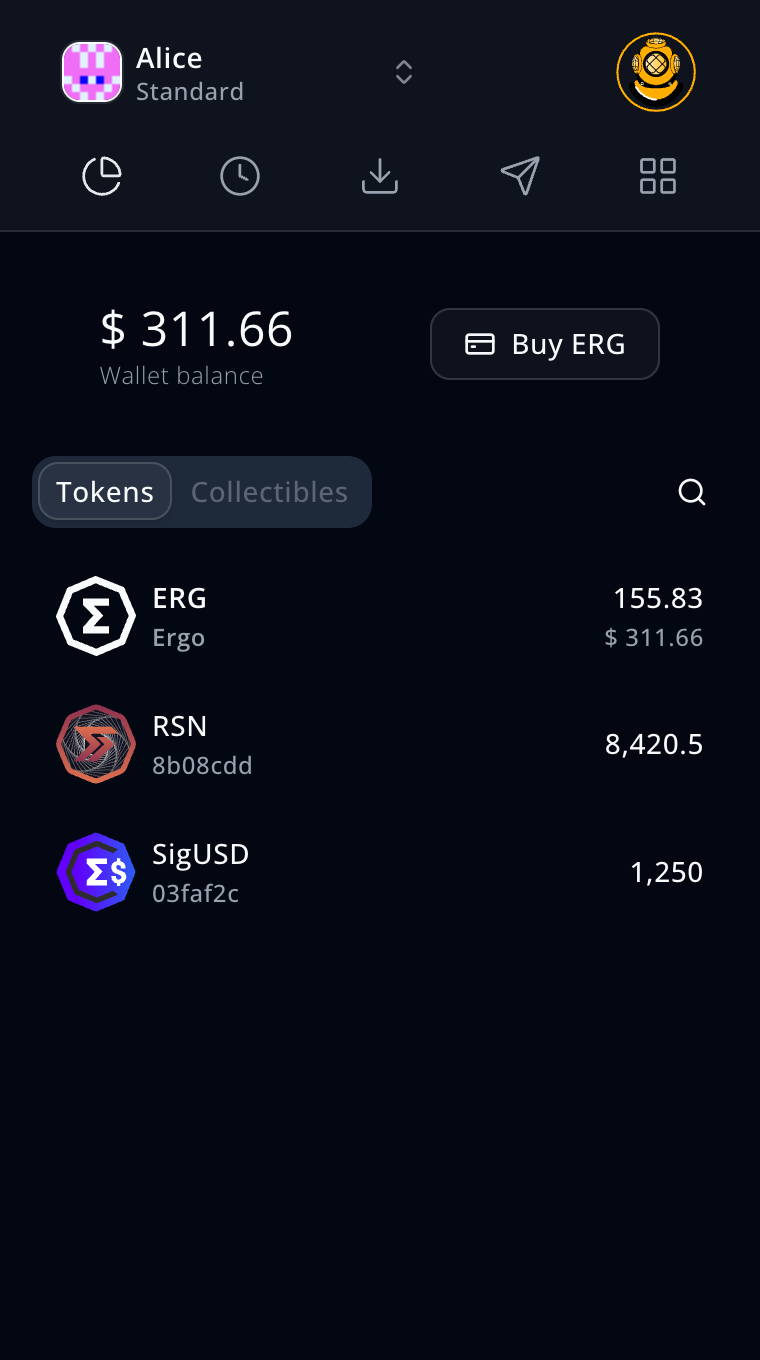
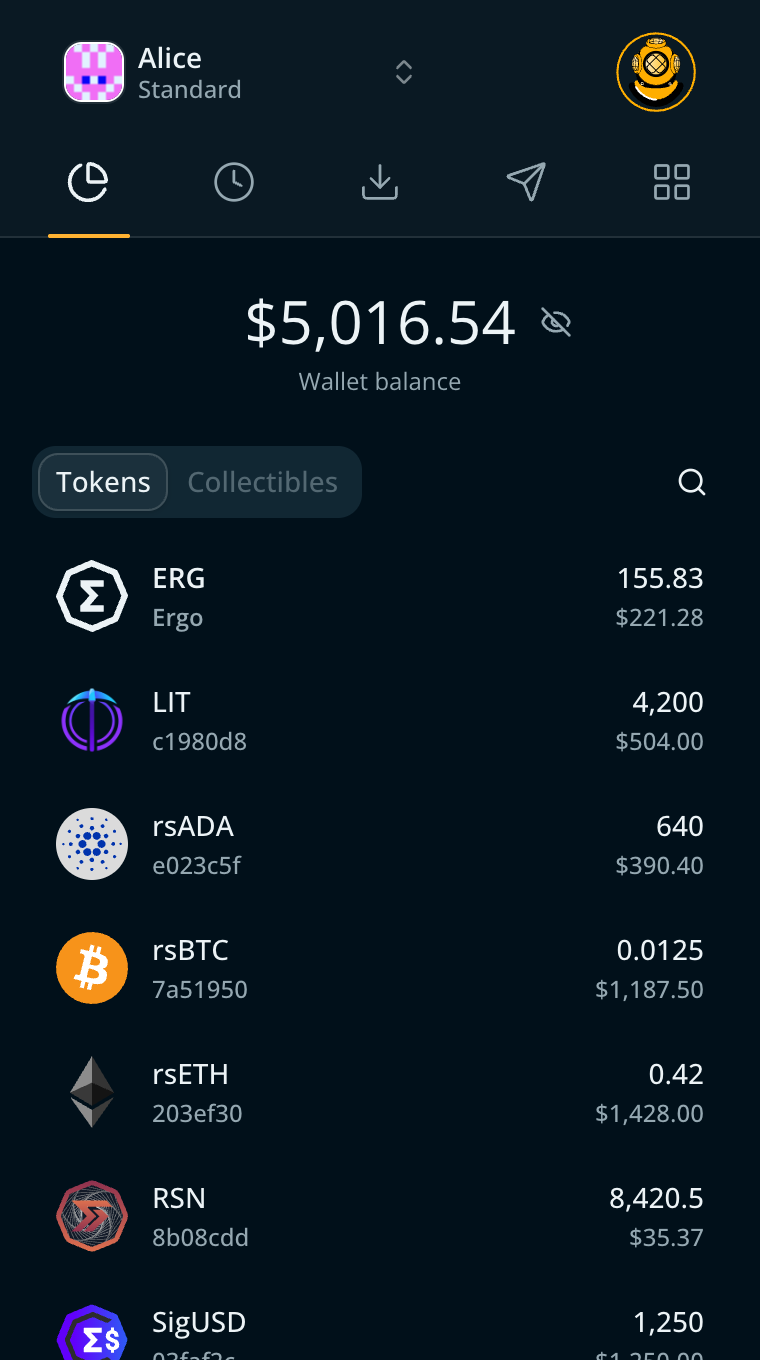
docs: update screenshots

diff --git a/tests/store/capture.spec.ts b/tests/store/capture.spec.ts
@@ -63,6 +63,13 @@ const TOKENS = [
     ergPrice: 95_000 / ERG_USD
   },
   {
[1 lines of base64/hex data omitted]
+    name: "rsETH",
+    decimals: 9,
+    amount: "420000000", // 0.42
+    ergPrice: 3_400 / ERG_USD
+  },
+  {
[1 lines of base64/hex data omitted]
     name: "LIT",
     decimals: 6,
@@ -191,6 +198,9 @@ for (const scheme of ["dark", "light"] as const) {
       await popup.importWallet(WALLET_B);
       await popup.importReadOnlyWallet(COLD_WALLET.name, await xpubOf(COLD_WALLET));
       await popup.importWallet(WALLET_A);
+      const masterAlert = page.locator("[data-master-password-alert]");
+      await masterAlert.getByRole("button", { name: "Don't ask again" }).click();
+      await expect(masterAlert).toHaveCount(0);
       await page.waitForTimeout(1500);
       await expect(page.getByRole("tabpanel")).toContainText("SigUSD");
       await shot(page, `${scheme}-assets`);

diff --git a/README.md b/README.md
@@ -23,9 +23,9 @@
 <p align="center">
   <img alt="Assets view" src="docs/public/screenshots/assets.png" width="250">
   &nbsp;
-  <img alt="Receive view" src="docs/public/screenshots/receive.png" width="250">
+  <img alt="Receive view" src="docs/public/screenshots/send.png" width="250">
   &nbsp;
-  <img alt="dApp connection request" src="docs/public/screenshots/connect.png" width="250">
+  <img alt="dApp connection request" src="docs/public/screenshots/sign.png" width="250">
 </p>
 
 ## Description
